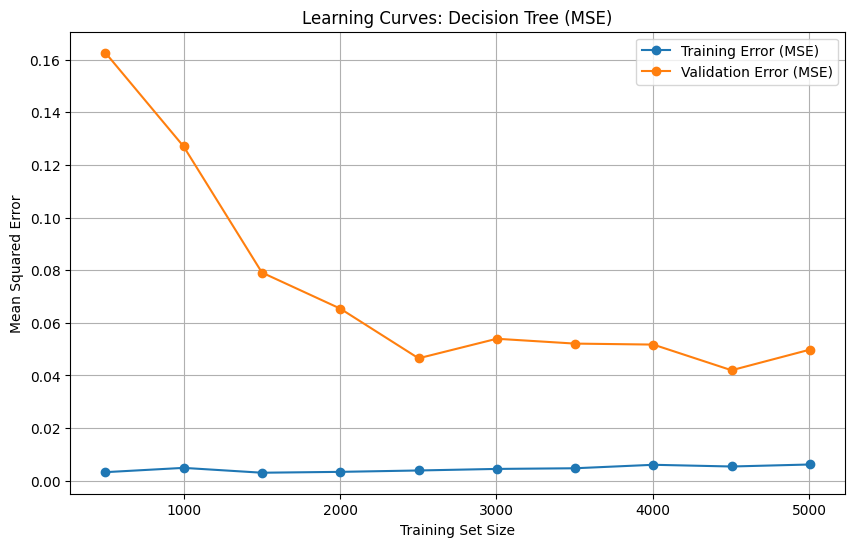
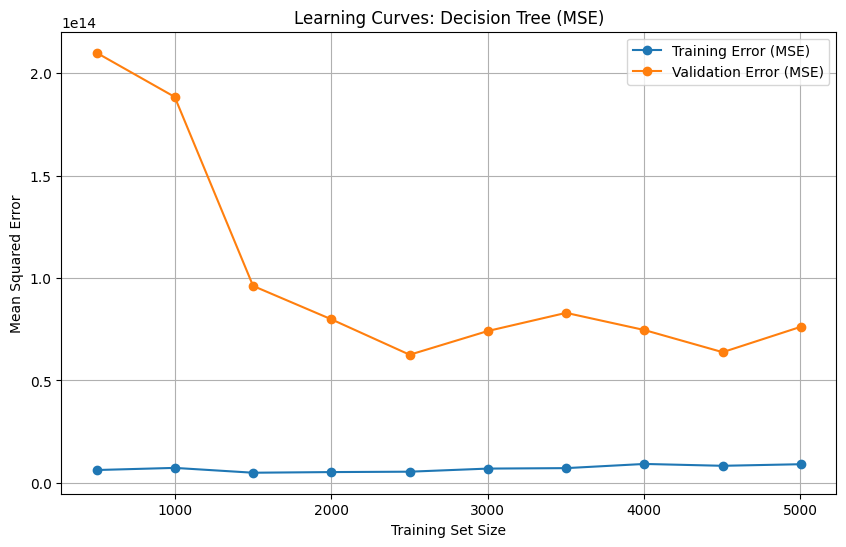
Q3/4 Done

diff --git a/A4/Q3/4.py b/A4/Q3/4.py
@@ -1,6 +1,6 @@
 import pandas as pd
-from sklearn.model_selection import train_test_split, cross_val_score, learning_curve
-from sklearn.tree import DecisionTreeRegressor, plot_tree
+from sklearn.model_selection import cross_val_score, learning_curve
+from sklearn.tree import DecisionTreeRegressor
 from sklearn.metrics import r2_score, mean_squared_error
 import matplotlib.pyplot as plt
 import numpy as np
@@ -8,21 +8,24 @@ import os
 
 os.makedirs("Plots", exist_ok=True)
 
-# train_data = pd.read_csv('../dataset/train.csv')
-train_data = pd.read_csv('../processed_train_data.csv')
+train_data = pd.read_csv('../Q2/X_train_final_with_categories.csv')
+test_data = pd.read_csv('../Q2/X_test_final_with_categories.csv')
 
-X = train_data.drop(columns=['Price'])
-y = train_data['Price']
-X_train, X_test, y_train, y_test = train_test_split(X, y, test_size=0.2, random_state=42)
+X_train = train_data.drop(columns=['Price', 'Price_Category'])
+y_train = train_data['Price']
+
+X_test = test_data.drop(columns=['Price', 'Price_Category'])
+y_test = test_data['Price']
 
 # Training Decision Tree on processed data using the Best Hyperparameters found in 2b
-# Do not need to prune the tree as `ccp_alpha` = 0 is the best hyperparameter
+# `ccp_alpha` = 31941543.737055868 is the best hyperparameter
 model = DecisionTreeRegressor(
     random_state=42,
     max_depth=10,
     max_features=None,
     min_samples_leaf=2,
-    min_samples_split=2
+    min_samples_split=2,
+    ccp_alpha=31941543.737055868
 )
 model.fit(X_train, y_train)
 
@@ -30,8 +33,8 @@ model.fit(X_train, y_train)
 # We use Negative MSE as the scoring metric
 cv_mse = cross_val_score(
     model,
-    X,
-    y,
+    X_train,
+    y_train,
     cv=5,
     scoring='neg_mean_squared_error'
 )
@@ -42,8 +45,8 @@ print("Mean CV MSE:", np.mean(cv_mse))
 # Implement Learning Curves
 train_sizes, train_scores, validation_scores = learning_curve(
     model,
-    X,
-    y,
+    X_train,
+    y_train,
     train_sizes=np.linspace(0.1, 1.0, 10),
     cv=5,
     scoring='neg_mean_squared_error',
